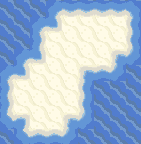
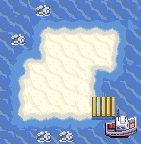
a

diff --git a/ITW-2021-G41-E1/ITW principal/Pagina_do_jogo.html b/ITW-2021-G41-E1/ITW principal/Pagina_do_jogo.html
@@ -109,9 +109,9 @@
     <div class="max-width">
       <label name="selectmap">Maps:</label>
         <select id="selectmapa" name="Maps">
-          <option value="grass_map" selected>Florest map</option>
+          <option value="grass_map">Florest map</option>
           <option value="cave_map">Cave map</option>
-          <option value="water_map">Island map</option>
+          <option value="water_map" selected>Island map</option>
         </select>
 
       <button id="start" >Start Game</button>

diff --git a/ITW-2021-G41-E1/ITW principal/JavaScript/jogo.js b/ITW-2021-G41-E1/ITW principal/JavaScript/jogo.js
@@ -335,7 +335,7 @@ function mapa3(){
 
     desenhaMapaConsola();
     desenhaMapa();
-    $('#container1a').css('background-image', 'url("css/Imagens_css/sand_tile.png")');
+    $('#container1a').css('background-image', 'url("css/Imagens_css/sand_tile2.png")');
 }
 
 
